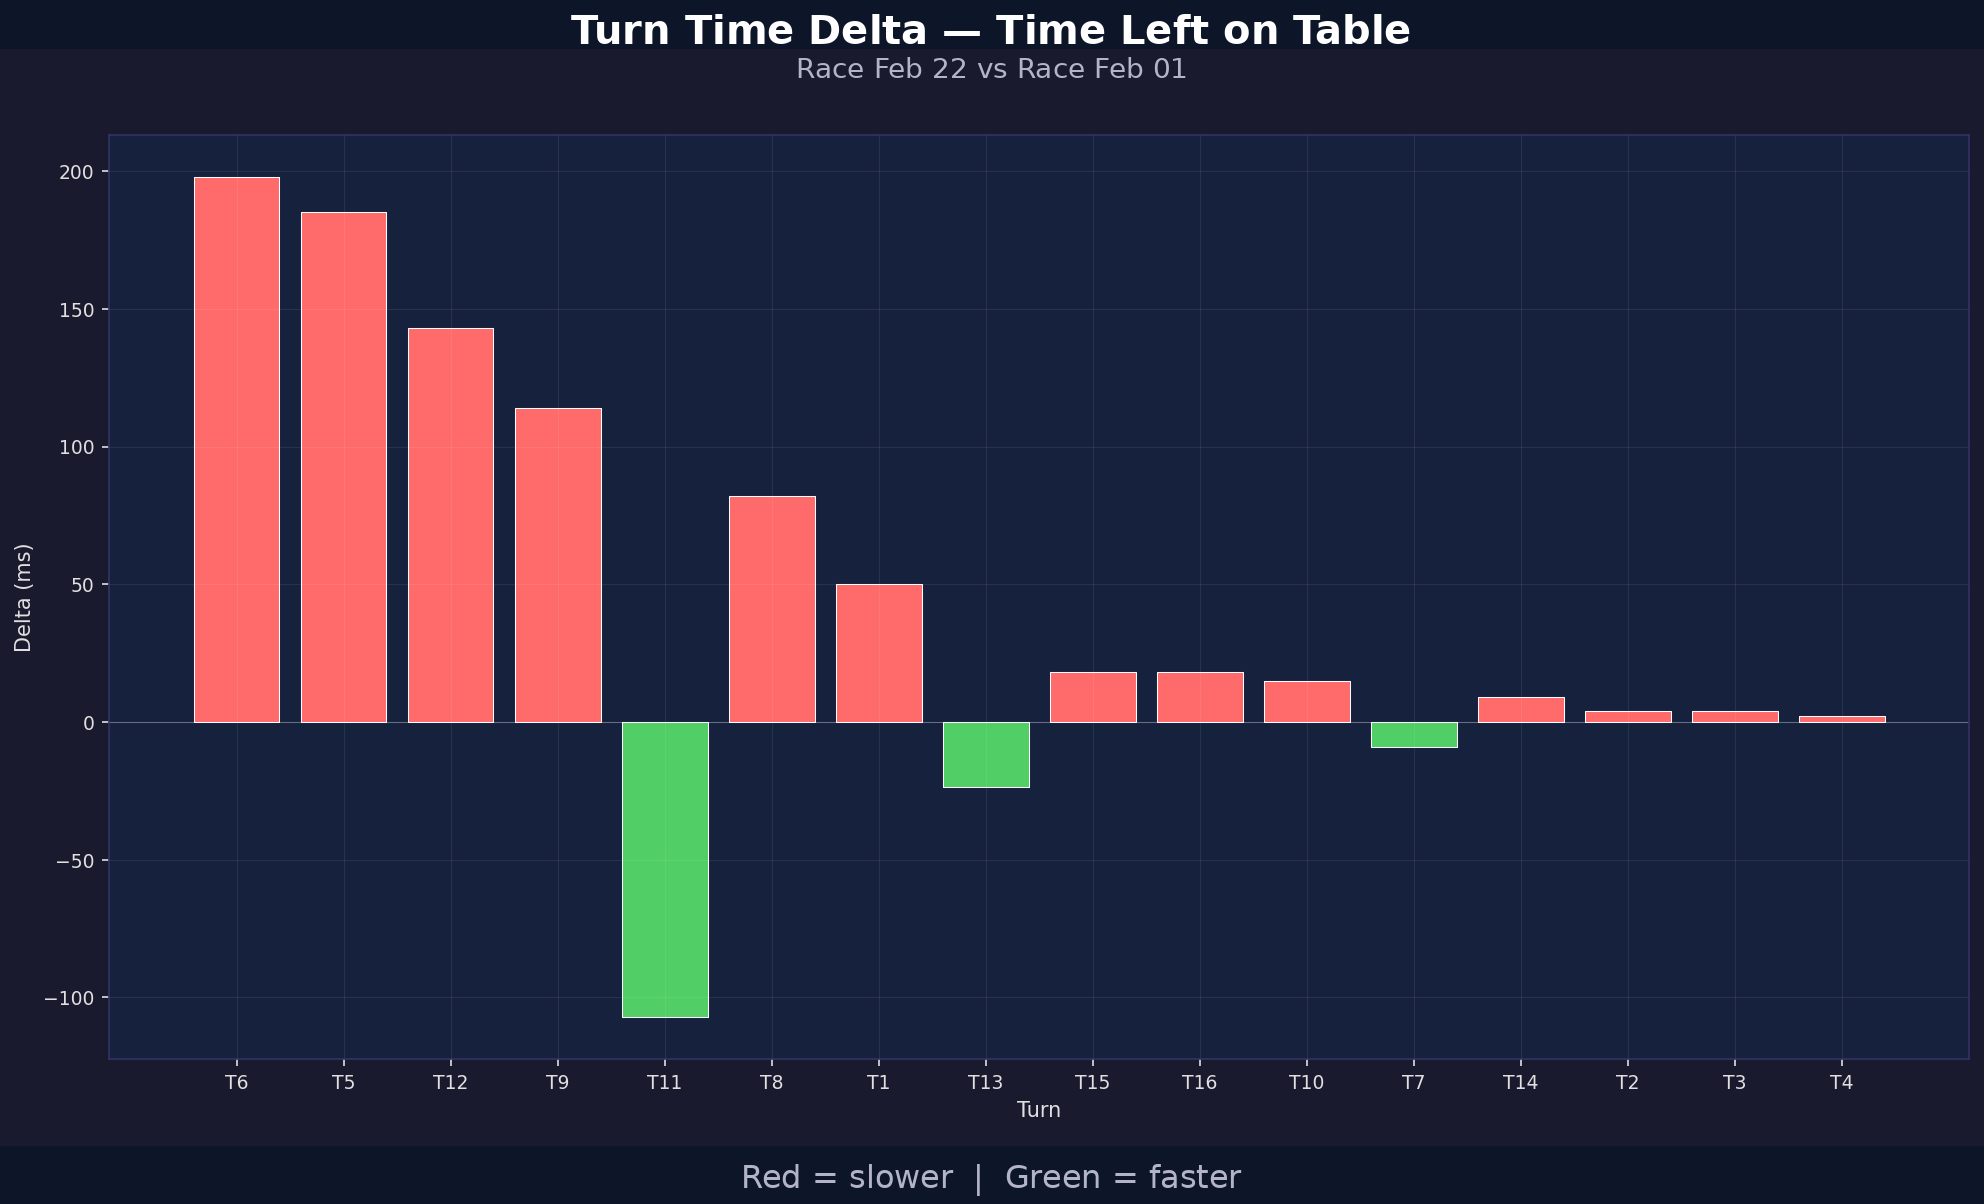
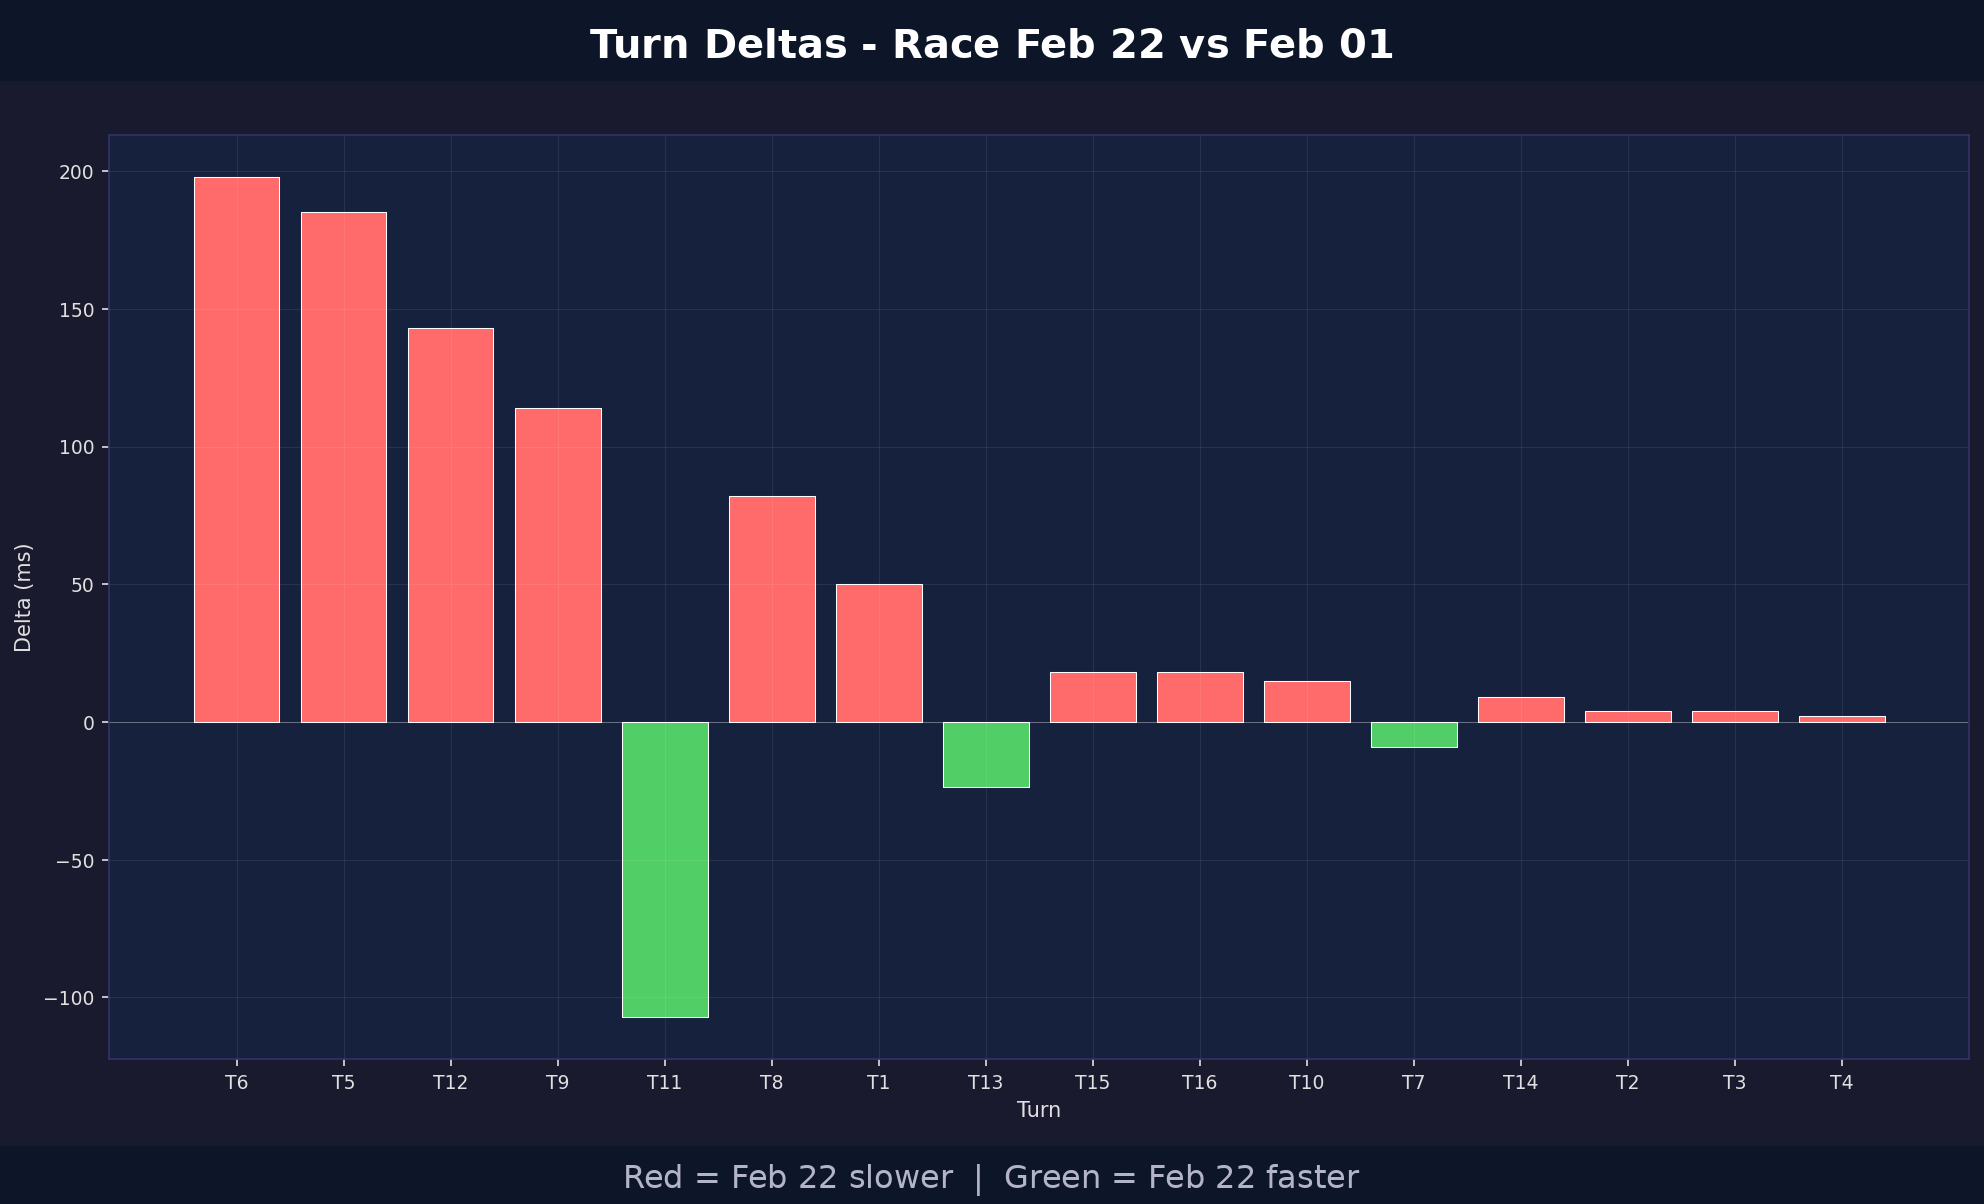
Fix chart text, refine welcome card copy, add markdown chevron

Changed region(s): [[0.2812, 0.0, 0.7188, 0.0615], [0.5625, 0.9527, 0.6875, 1.0], [0.3125, 0.9527, 0.4375, 1.0]]

diff --git a/scenarios.js b/scenarios.js
@@ -109,7 +109,7 @@ const SCENARIOS = {
                 markdown: '<p><strong>PyFy Telemetry F1</strong> is currently compatible with EA Sports F1 25*.</p>' +
                     '<p class="welcome-slide-beta">In Beta on Windows: supports 5 tracks (Abu Dhabi, Melbourne, Shanghai, Suzuka, Bahrain), more added regularly!<br/>Keyboard-friendly CLI with a built-in menu.</p>' +
                     '<p>This tour walks you through the key features: <a href="#full-reel/1" class="slide-link">analysis charts</a>, <a href="#full-reel/9" class="slide-link">session comparisons</a>, <a href="#llm/1" class="slide-link">third-party coaching insights</a>, <a href="#" class="slide-link slide-open-csv">key telemetry data</a>, or a <a href="#install/1" class="slide-link">quick setup demo</a> (PC or Console).</p>' +
-                    '<p class="welcome-slide-cta">\u2026or select another <a href="#" class="slide-open-drawer">walkthrough</a> from the menu,<br/>or get it free in the <a href="https://apps.microsoft.com/detail/9P60JSFXGLG0" target="_blank" rel="noopener" class="slide-link welcome-store-link">Microsoft Store</a>.</p>' +
+                    '<p class="welcome-slide-cta">\u2026select another <a href="#" class="slide-open-drawer">walkthrough</a> from the menu,<br/>or get the app for free in the <a href="https://apps.microsoft.com/detail/9P60JSFXGLG0" target="_blank" rel="noopener" class="slide-link welcome-store-link">Microsoft Store</a>.</p>' +
                     '<p class="welcome-slide-fine-print">(no ads or in-app purchases, no account or cloud services, no data collection)</p>',
                 title: 'PyFy Telemetry \u2014 F1 Performance Analysis (Beta)',
                 description: 'Capture real-time sim racing telemetry and turn it into practical, corner-by-corner insights you can actually use to gain lap time.',

diff --git a/viewer.js b/viewer.js
@@ -272,7 +272,22 @@
             const mdDiv = document.createElement('div');
             mdDiv.className = 'slide-markdown';
             mdDiv.innerHTML = slide.markdown;
+            const mdChevron = createChevron();
+            mdChevron.className = 'overflow-chevron md-chevron';
+            mdDiv.appendChild(mdChevron);
             slideContent.appendChild(mdDiv);
+            requestAnimationFrame(function () {
+                sizeSlideImage();
+                if (mdDiv.scrollHeight > mdDiv.clientHeight + 2) {
+                    mdChevron.classList.add('visible');
+                }
+            });
+            mdChevron.addEventListener('click', function (e) {
+                e.stopPropagation();
+                var expanding = !mdDiv.classList.contains('expanded');
+                mdDiv.classList.toggle('expanded');
+                mdChevron.classList.toggle('flipped', expanding);
+            });
         } else {
             slideImage.style.display = '';
             slideImage.classList.remove('loaded');

diff --git a/style.css b/style.css
@@ -812,6 +812,19 @@ body.drawer-open .caption-bar {
 .slide-markdown code { font-family: var(--font-mono); font-size: 0.85em; background: var(--bg-tertiary); padding: 2px 6px; border-radius: 3px; }
 .slide-markdown strong { color: var(--accent); font-weight: 600; }
 .slide-markdown em { color: var(--text-secondary); }
+.slide-markdown .md-chevron {
+    position: sticky;
+    bottom: 0;
+    display: block;
+    text-align: center;
+    padding: 6px 0;
+    background: linear-gradient(transparent, var(--bg-secondary) 40%);
+}
+
+.slide-markdown.expanded {
+    max-height: none;
+}
+
 .welcome-slide-beta { font-size: 0.82em; color: var(--text-muted); }
 .welcome-slide-cta { margin-top: 24px; }
 .slide-markdown .slide-link { color: var(--accent); text-decoration: none; }

diff --git a/index.html b/index.html
@@ -22,7 +22,7 @@
             </svg>
         </button>
         <div class="header-content" id="header-home" style="cursor: pointer;">
-            <h1 class="site-title"><span class="brand">PyFy Telemetry</span> — F1 Performance Analysis (Beta)</h1>
+            <h1 class="site-title"><span class="brand">PyFy Telemetry</span> — F1 Performance Analysis</h1>
             <p class="site-subtitle">See it in action before you install</p>
         </div>
     </header>
